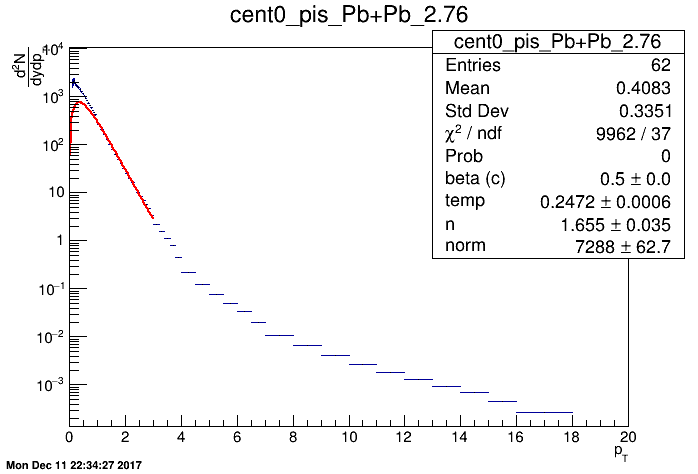
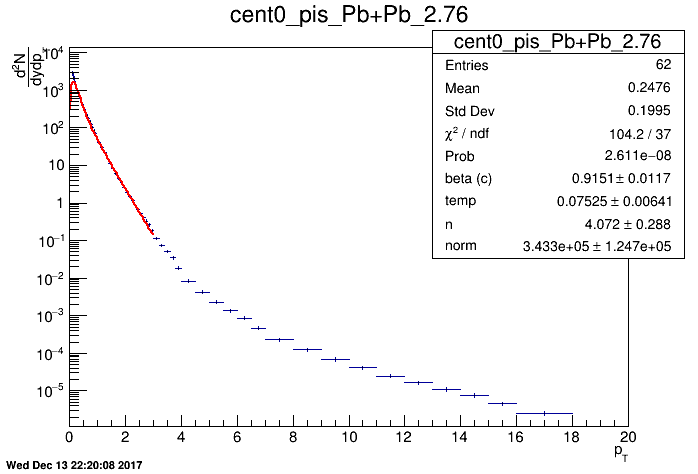
Add existing file

diff --git a/fitALICE2013Data_transformed.h b/fitALICE2013Data_transformed.h
@@ -1,25 +1,23 @@
 /*
-In this version: applied transformation to 
+Evolved from fitBESData5.h
+
+In fitBESData5.h, transformation is applied to 
 account for the fact that BES data contains d^2N/(2pi*pt*dpt*dy)[(GeV/c)^-2]
 instead of d^2N/(dpt*dy)[(GeV/c)^-2]
+
+In this header file, that transformation is commented out
+because the affected functions in this header file act on
+the version of ALICE 2013 that has already been transformed
+to contain d^2N/(dpt*dy)[(GeV/c)^-2]
+
+affected functions:
+- getIntegralsAndErrorsFromData(TH1D* hist, Double_t type, Double_t mass)
+- getdNdpt(Double_t* pT, Double_t* params)
 */
 
 #ifndef fitBESData5_H
 #define fitBESData5_H
 
-/* Function that returns an array containing, in order:
-dEt/dEta
-dEt/dEta_Error;
-dEt/dy;
-dEt/dy_Error;
-dN/dEta;
-dNd/Eta_Error;
-dN/dy;
-dN/dy_Error
-
-corresponding to the data points in the passed histogram, i.e.,
-without extrapolation:
-*/
 Double_t* getIntegralsAndErrorsFromData(TH1D* hist, Double_t type, Double_t mass){
 	static Double_t integralArr[8]; //array to return
 	//^ if not static, error:
@@ -32,65 +30,69 @@ Double_t* getIntegralsAndErrorsFromData(TH1D* hist, Double_t type, Double_t mass
 	Double_t dNdEtaError;
 	Double_t dNdy;
 	Double_t dNdyError;
+	//Double_t dx = 1.; // gets redefined in the loop
 	Int_t binx1 = 0;
 	Int_t binx2 = 1000; // arbitrary, large value
 	Double_t integral = 0.;
 	Int_t totBins = hist -> GetNbinsX();
 	if (binx1 < 0) binx1 = 0; // sanity check
-	   	if (binx2 > totBins+1 || binx2 < 0) binx2 = totBins+1;
-		for(Int_t binx = binx1; binx <= binx2; binx++){
-			Double_t pt = (hist->GetXaxis()->GetBinLowEdge(binx)+
-						hist->GetXaxis()->GetBinUpEdge(binx))/2;// avg of bin edges
-			//float pt = h->GetXaxis()->GetBinLowEdge(binx);
-			// calculate E_T needed for dE_T/dy:
-			Double_t et = TMath::Sqrt(pt*pt+mass*mass)+type*mass;
-			// ^ sin(theta)=1 at midrapidity
-			
-			// calculate J*E_T needed for dE_T/dEta:
-			Double_t JTimeset = pt/(TMath::Sqrt(pt*pt+mass*mass))*et; 
-			Double_t J = pt/(TMath::Sqrt(pt*pt+mass*mass));
-			Double_t dx = hist->GetXaxis()->GetBinWidth(binx);
-			//cout << "bin width from bin " << binx << ": " << dx << endl;
-			//cout << "content in bin " << binx << ": " << h->GetBinContent(binx) << endl;
-			//dE_tdEtaIntegralData +
-			Double_t tr = 2. * TMath::Pi() * pt; // transformation to be applied becaue
-								// BES data contains d^2N/(2pi*pt*dpt*dy)[(GeV/c)^-2]
-			dEtdEta += hist->GetBinContent(binx)*tr*J*et*dx;
-			dEtdy 	+= hist->GetBinContent(binx)*tr*et*dx;
-			dNdEta 	+= hist->GetBinContent(binx)*tr*J*dx;
-			dNdy 	+= hist->GetBinContent(binx)*tr*dx;
-			//dE_tdyIntegralData += h->GetBinContent(binx)*et*dx;
-			// checking with et0:
-			//if (width) integralData += h->GetBinContent(binx)*et0*dx; 
-			dEtdEtaError 	+= hist->GetBinError(binx)*tr*J*et*dx;
-			dEtdyError 		+= hist->GetBinError(binx)*tr*et*dx;
-			dNdEtaError		+= hist->GetBinError(binx)*tr*J*dx;
-			dNdyError		+= hist->GetBinError(binx)*tr*dx;
-			//igerr2 += h->GetBinError(binx)*dx*et; //// !!look up details later
-			// ^ if the errors are completely correlated
-			// if uncorrelated: take the square root of igerr2
-			}
-			integralArr[0] = dEtdEta;
-			integralArr[1] = dEtdEtaError;
-			integralArr[2] = dEtdy;
-			integralArr[3] = dEtdyError;
-			integralArr[4] = dNdEta;
-			integralArr[5] = dNdEtaError;
-			integralArr[6] = dNdy;
-			integralArr[7] = dNdyError;
-		/* check: 
-			for(int i=0; i<8; i++){
-			
-			cout<<"Int result "<<i+1<<": "<<integralArr[i]<<endl;
+   	if (binx2 > totBins+1 || binx2 < 0) binx2 = totBins+1;
+   	cout << "mass: " << mass << endl;
+	for(Int_t binx = binx1; binx <= binx2; binx++){
+		//Double_t pt = (hist->GetXaxis()->GetBinLowEdge(binx));
+		Double_t pt = hist->GetXaxis()->GetBinLowEdge(binx)+
+					(hist->GetXaxis()->GetBinUpEdge(binx)-hist->GetXaxis()->GetBinLowEdge(binx))*.5;// avg of bin edges
+		//float pt = h->GetXaxis()->GetBinLowEdge(binx);
+		// calculate E_T needed for dE_T/dy:
+		Double_t et = TMath::Sqrt(pt*pt+mass*mass)+type*mass;
+		// ^ sin(theta)=1 at midrapidity
+		
+		// calculate J*E_T needed for dE_T/dEta:
+		///////Double_t JTimeset = pt/(TMath::Sqrt(pt*pt+mass*mass))*et; 
+		Double_t J = pt/(TMath::Sqrt(pt*pt+mass*mass)); // Jacobian
+		Double_t dx = hist->GetXaxis()->GetBinWidth(binx);
+		//cout << "bin width from bin " << binx << ": " << dx << endl;
+		//cout << "content in bin " << binx << ": " << h->GetBinContent(binx) << endl;
+		//dE_tdEtaIntegralData +
+		Double_t tr = 1.; // initialize to this value, and in case no transformation
+						// needs to be applied, comment out the following line:
+		//tr = 2. * TMath::Pi() * pt; // transformation to be applied becaue
+							// BES/ALICE2013 data contains d^2N/(2pi*pt*dpt*dy)[(GeV/c)^-2]
+		dEtdEta += hist->GetBinContent(binx)*tr*J*et*dx;
+		dEtdy 	+= hist->GetBinContent(binx)*tr*et*dx;
+		dNdEta 	+= hist->GetBinContent(binx)*tr*J*dx;
+		dNdy 	+= hist->GetBinContent(binx)*tr*dx;
+		//dE_tdyIntegralData += h->GetBinContent(binx)*et*dx;
+		// checking with et0:
+		//if (width) integralData += h->GetBinContent(binx)*et0*dx; 
+		dEtdEtaError 	+= hist->GetBinError(binx)*tr*J*et*dx;
+		dEtdyError 		+= hist->GetBinError(binx)*tr*et*dx;
+		dNdEtaError		+= hist->GetBinError(binx)*tr*J*dx;
+		dNdyError		+= hist->GetBinError(binx)*tr*dx;
+		//igerr2 += h->GetBinError(binx)*dx*et; //// !!look up details later
+		// ^ if the errors are completely correlated
+		// if uncorrelated: take the square root of igerr2
 		}
-		*/
-			
+		integralArr[0] = dEtdEta;
+		integralArr[1] = dEtdEtaError;
+		integralArr[2] = dEtdy;
+		integralArr[3] = dEtdyError;
+		integralArr[4] = dNdEta;
+		integralArr[5] = dNdEtaError;
+		integralArr[6] = dNdy;
+		integralArr[7] = dNdyError;
+	/* check: 
+		for(int i=0; i<8; i++){
+		
+		cout<<"Int result "<<i+1<<": "<<integralArr[i]<<endl;
+	}
+	*/
+		
 		
 	return integralArr;
 }
 
-// Function to return 1/pt dN/dpt integrand (which is used in...
-	// ...function getdNdpt):
+//method to return 1/pt dN/dpt integrand
 Double_t getdNdptOverptIntegrand(Double_t* rad, Double_t* par){
 	// (dN/dpt)/pt= r*dr*mt*I0((pt*sinh(rho))/T)*K1((mt*cosh(rho))/T)
 	// rho=arctanh(beta); beta=betaMax*(r/R)^n
@@ -116,11 +118,7 @@ Double_t getdNdptOverptIntegrand(Double_t* rad, Double_t* par){
 	return integrand;
 }// end of method getdNdptOverptIntegrand
 
-// Function to return dN/dpt 
-	//(normalized using free parameter 'norm'
-	// and transformed by multiplying with 2pi*pT;
-	// result of this function is used 
-	// in the function getdETdyIntegrand):
+// method to return dN/dpt
 Double_t getdNdpt(Double_t* pT, Double_t* params){
 	TF1* dNdptOverptIntegrandFunc = new TF1("integrandFunc", 
 									getdNdptOverptIntegrand, 
@@ -137,15 +135,11 @@ Double_t getdNdpt(Double_t* pT, Double_t* params){
 
 	Double_t dNdptOverpt 	= dNdptOverptIntegrandFunc->Integral(0,1);
 	// ^ normalized r goes from 0 to 1 instead of from 0 to R
-	Double_t dNdpt_normalized			= 2 * TMath::Pi() * pt * norm * dNdptOverpt+type*0.;
+	Double_t dNdpt_normalized			= /*2 * TMath::Pi() * pt **/ norm * dNdptOverpt+type*0.;
 	gSystem->ProcessEvents();
 	gROOT->Reset();
 	return dNdpt_normalized;
 }
-
-// Function to return the integrand to be used
-	// to calculate dET/dy using Boltzmann-Gibbs Blast wave
-	// fit to available d^2N/(dpt*dy) vs pt histogram: 
 Double_t getdETdyIntegrand(Double_t* myPt, Double_t* par){
 	Double_t pt   = myPt[0]; // x-axis of integration
 	Double_t mass  = par[0];
@@ -161,10 +155,6 @@ Double_t getdETdyIntegrand(Double_t* myPt, Double_t* par){
 	
 	return integrand;
 }
-
-// Function to return the integrand to be used
-	// to calculate dET/dEta using Boltzmann-Gibbs Blast wave
-	// fit to available d^2N/(dpt*dy) vs pt histogram: 
 Double_t getdETdEtaIntegrand(Double_t* myPt, Double_t* par){
 	Double_t pt   = myPt[0]; // x-axis of integration
 	Double_t mass = par[0];
@@ -181,9 +171,6 @@ Double_t getdETdEtaIntegrand(Double_t* myPt, Double_t* par){
 	return integrand;
 }
 
-// Function to return the integrand to be used
-	// to calculate dET/dy using Boltzmann-Gibbs Blast wave
-	// fit to available d^2N/(dpt*dy) vs pt histogram: 
 Double_t getdNdEtaIntegrand(Double_t* myPt, Double_t* par){
 	Double_t pt   = myPt[0]; // x-axis of integration
 	Double_t mass = par[0];
@@ -200,9 +187,6 @@ Double_t getdNdEtaIntegrand(Double_t* myPt, Double_t* par){
 	return integrand;
 }
 
-// Function to return the integrand to be used
-	// to calculate dN/dy using Boltzmann-Gibbs Blast wave
-	// fit to available d^2N/(dpt*dy) vs pt histogram:
 Double_t getdNdyIntegrand(Double_t* myPt, Double_t* par){
 	Double_t pt   = myPt[0]; // x-axis of integration
 	Double_t mass = par[0];
@@ -218,6 +202,7 @@ Double_t getdNdyIntegrand(Double_t* myPt, Double_t* par){
 	
 	return integrand;
 }
+
 
 /*Double_t use_funcBGBW(TF1* funcObj, Double_t* pt){
 	return funcObj->Eval(pt);

diff --git a/fitALICE2013Data1_transformed.cpp b/fitALICE2013Data1_transformed.cpp
@@ -1,13 +1,18 @@
 /*
-For details, see the beginning of fitSampleSpec.cpp
+same as fitALICE2013Data1.cpp but for ALICE2013Spec_transformed.root
 
-So far this code does not produce good fit!
+So far, does not produce good fit!
+FIXME Recognized fatal error:
+Transformed histogram does not contain error bars
+Hence, chi-square method is obsolete
+
+For more details, see the beginning of fitSampleSpec.cpp
 */
 #include <iostream>
 #include <string>
 #include "TKey.h"
 #include <fstream>
-#include "fitALICE2013Data.h"
+#include "fitALICE2013Data_transformed.h"
 using namespace std;
 
 // forward declarations for methods in fitBESData.h:
@@ -23,7 +28,7 @@ Double_t getdNdyIntegrand(Double_t* myPt, Double_t* par);
 Int_t* getNpartAndErr(Double_t collisionEnergy, string centrality);
 
 // main function:
-int fitALICE2013Data1(){
+int fitALICE2013Data1_transformed(){
 	std::ofstream datFile ("ALICE2013Results.dat", std::ofstream::out);
 	datFile << "CollEn"<< "\t"	
 			<< "particle" << "\t"
@@ -71,7 +76,7 @@ int fitALICE2013Data1(){
 			<< "dNdyTErr" << "\t"
 			<< "Npart" << "\t"
 			<< "NpartErr" << "\n";
-	TFile* myFile = new TFile("ALICE2013Spec_th1d.root");
+	TFile* myFile = new TFile("ALICE2013Spec_transformed.root");
 	TIter next(myFile->GetListOfKeys());
 	TKey* mikey;
 	TH1D* h;
@@ -176,7 +181,7 @@ int fitALICE2013Data1(){
 		else if(histoName == "cent0_pis_Pb+Pb_2.76")
 			{
 			cout << "check1" << endl;
-			funcBGBW->SetParameters(mass,0.9,0.20,0.1,10000000.,type);
+			funcBGBW->SetParameters(mass,0.9,0.10,0.2,100.,type);
 			}
 			
 			
@@ -191,7 +196,7 @@ int fitALICE2013Data1(){
 
 		funcBGBW->FixParameter(0,mass);// mass in GeV
 		funcBGBW->FixParameter(5,type);
-		TFitResultPtr r = h->Fit("getdNdpt","S","",0.00000000000001,3.);
+		TFitResultPtr r = h->Fit("getdNdpt","S","",0.00000000000001,5.);
 		Double_t chi2Prob = r->Prob();
 		cout << "chi-sq prob: " << chi2Prob << endl;
 		h->SetMaximum(5*(h->GetMaximum()));
@@ -369,7 +374,7 @@ int fitALICE2013Data1(){
 			//<< nDFBGBW<< "\nchi2/ndf: " << chi2BGBW/nDFBGBW <<endl;
 	
 		/* FIXME */
-		string imgPathAndName = "./debugPlots/"+histoName+"42.png";
+		string imgPathAndName = "./debugPlots/"+histoName+"_trans.png";
 				//c1 -> SaveAs("./fittedPlots/trial1.png");
 		TImage *png = TImage::Create();// FIXME try to use canvas method instead of png object
 		png->FromPad(c1);

diff --git a/fitSampleSpec.cpp b/fitSampleSpec.cpp
@@ -9,11 +9,11 @@ Used to analyze any TH1D object within a TFile object by customizing:
 			(only) in this case, string histoName = h->GetName(); makes sense
 	3.2. h = (TH1D*)myFile->Get(Form("cent%i_proton_plus",0));
 			this is the case applicable to SPECTRA_COMB_20120709.root
-4. depending on the histoName, particleID and its dependent variables
+4. (depending on the histoName) particleID and its dependent variables
 5. fit parameters: funcBGBW->SetParameters(mass,0.99,0.30,0.1,1000.,type);
 6. ylabel: ylabel = "#frac{d^{2}N}{dydp_{T}}";
 7. depending on the ylabel, possible transformation to be applied
-	under fitALICE2013Data.h within functions:
+	under the associated header file (eg. fitALICE2013Data.h) within functions:
 	7.1. getIntegralsAndErrorsFromData(TH1D* hist, Double_t type, Double_t mass)
 	7.2. getdNdpt(Double_t* pT, Double_t* params)
 */

diff --git a/fitALICE2013Data.h b/fitALICE2013Data.h
@@ -5,9 +5,7 @@ In fitBESData5.h, transformation is applied to
 account for the fact that BES data contains d^2N/(2pi*pt*dpt*dy)[(GeV/c)^-2]
 instead of d^2N/(dpt*dy)[(GeV/c)^-2]
 
-This holds true for ALICE 2013 data as well, except for the version
-in which transformation is applied during the creation of the 
-root file with the histogram object 
+This holds true for ALICE 2013 data (hence this header file) as well. 
 
 affected functions:
 - getIntegralsAndErrorsFromData(TH1D* hist, Double_t type, Double_t mass)

diff --git a/ALICE2013ToRootFile_trans.cpp b/ALICE2013ToRootFile_trans.cpp
@@ -32,7 +32,7 @@ int ALICE2013ToRootFile_trans(){ // main
 	
 	in.open(Form("/home/bsharma/rhip/analysisCodes/ALICE2013Data.txt"));
 	// ^ data file with Beam Scan Energy data, !!!!!!bins sorted!!!!!
-	TFile* f = new TFile("ALICE2013Spec_transformed_0.3.root","RECREATE");// .root file to be created
+	TFile* f = new TFile("ALICE2013Spec_transformed.root","RECREATE");// .root file to be created
 	//const char* collidingSpeciesPtr = NULL;
 	
 /*
